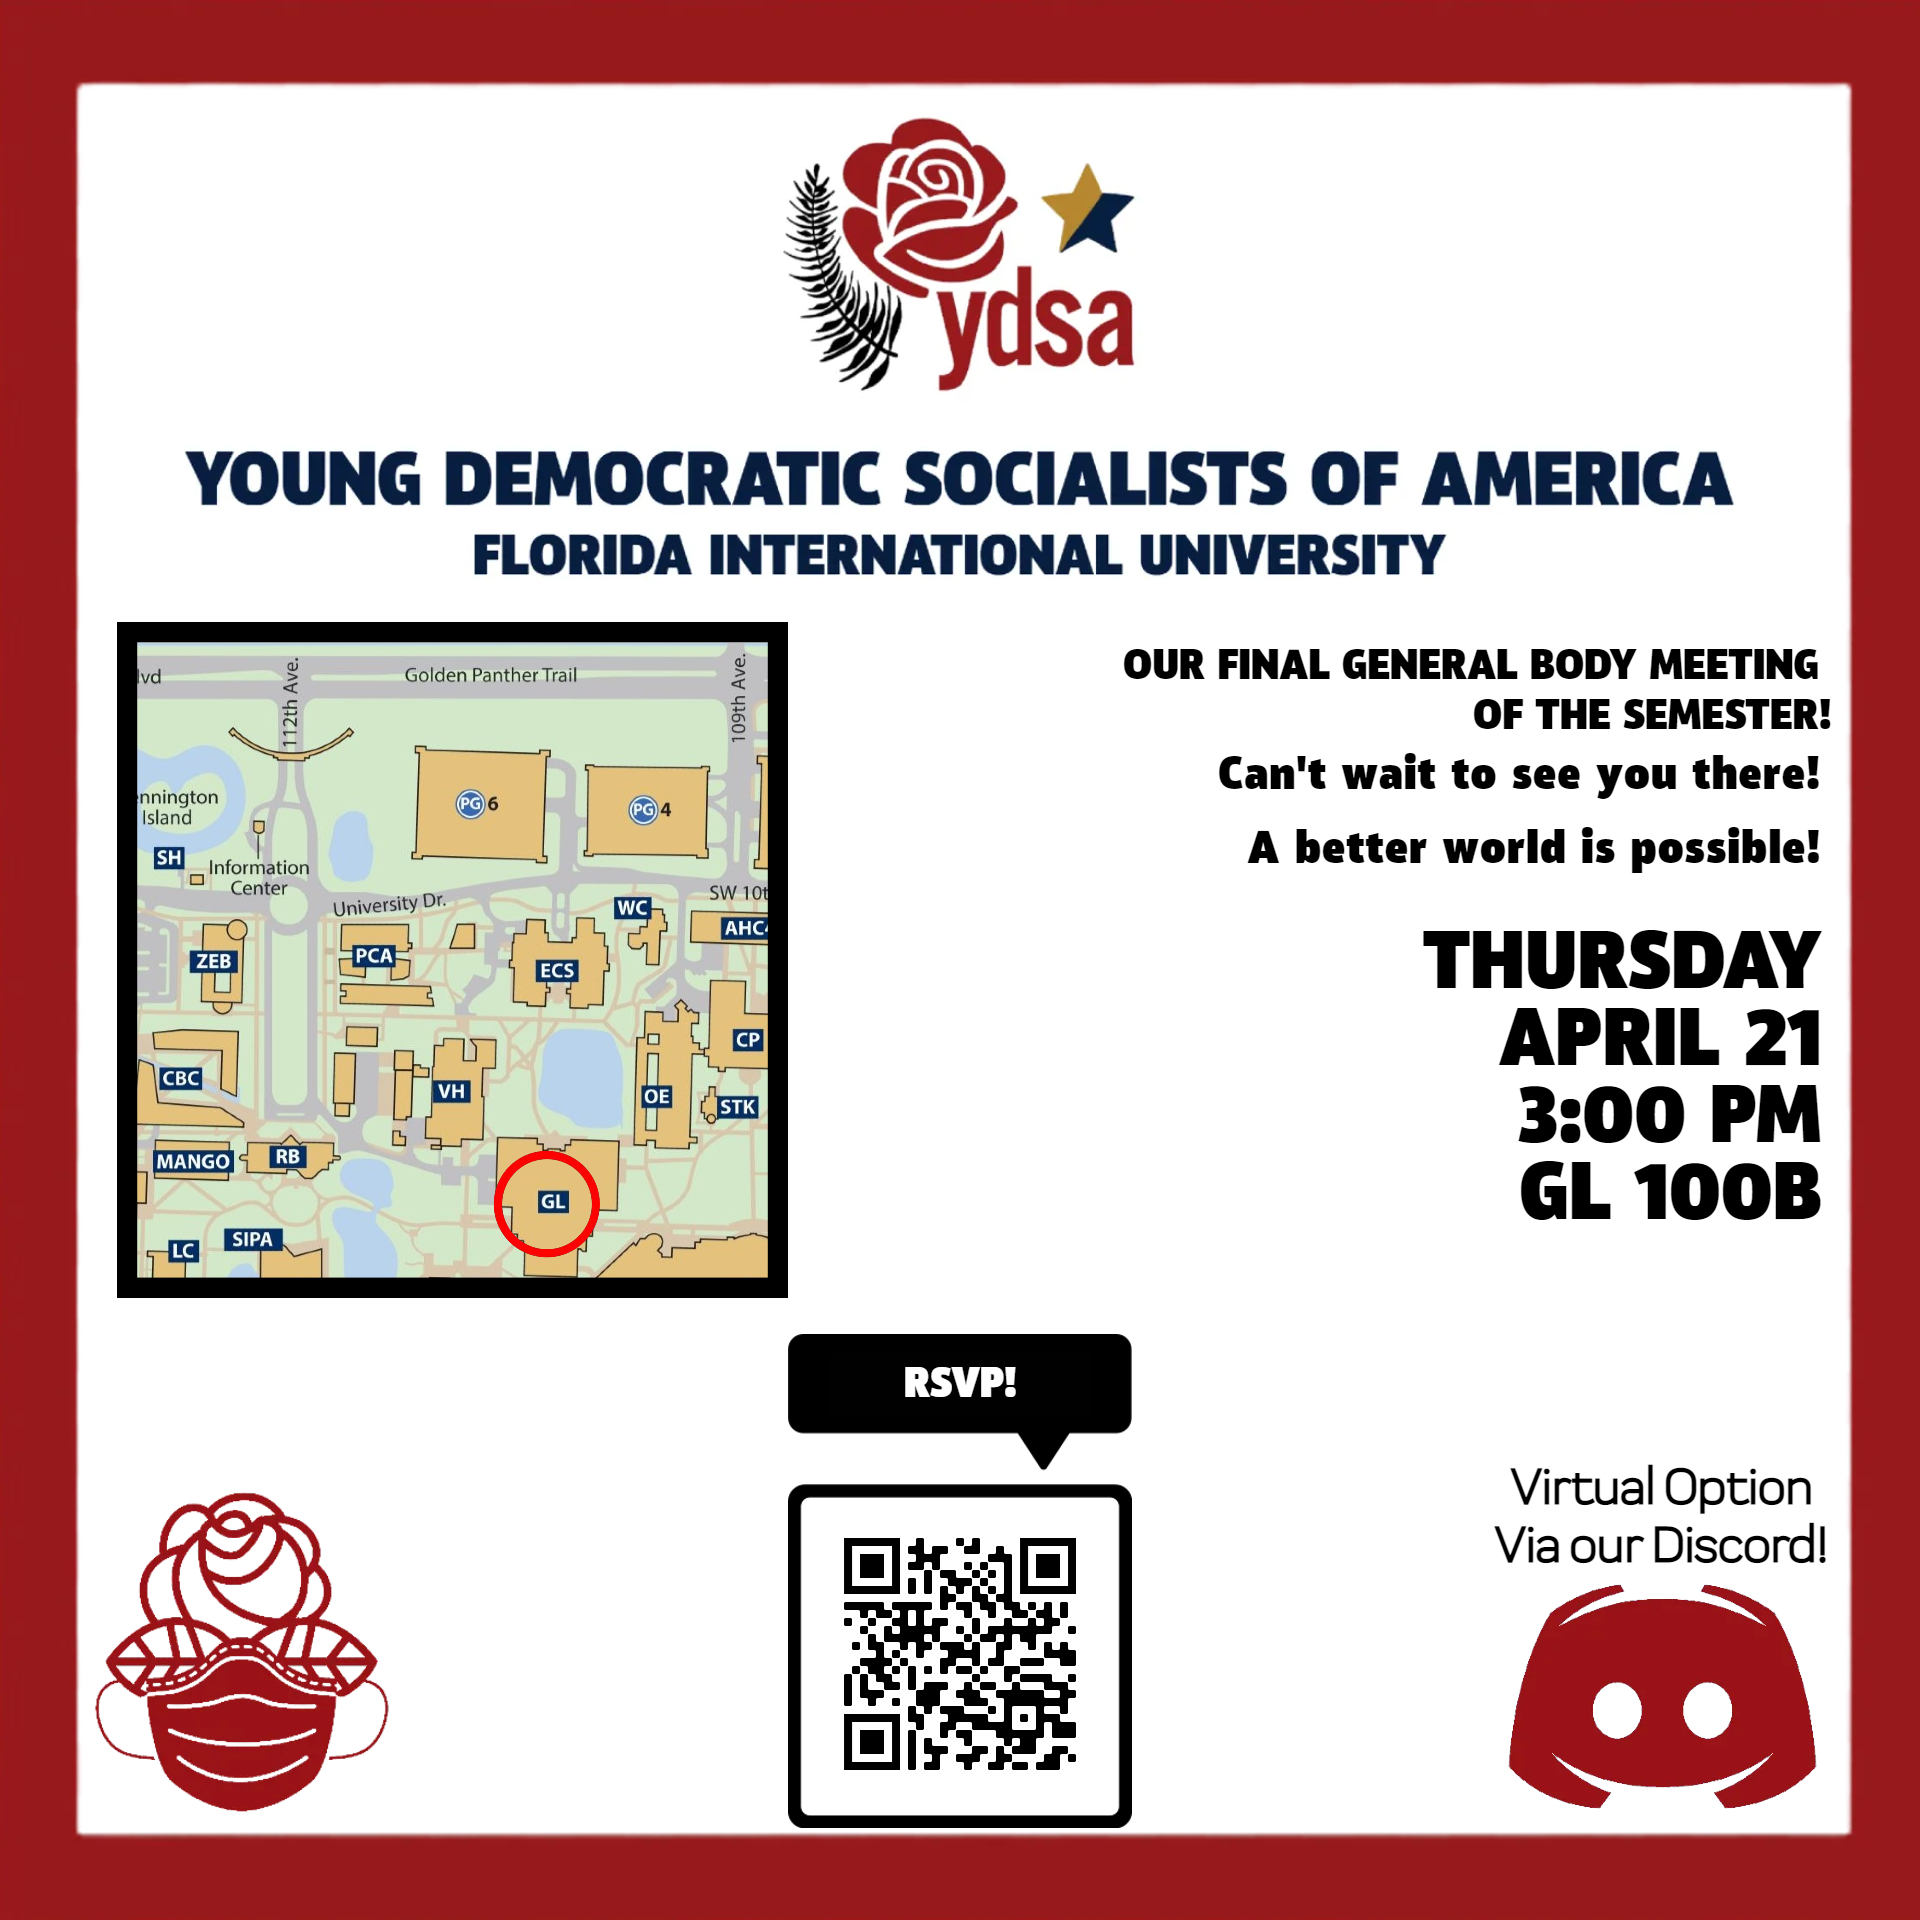
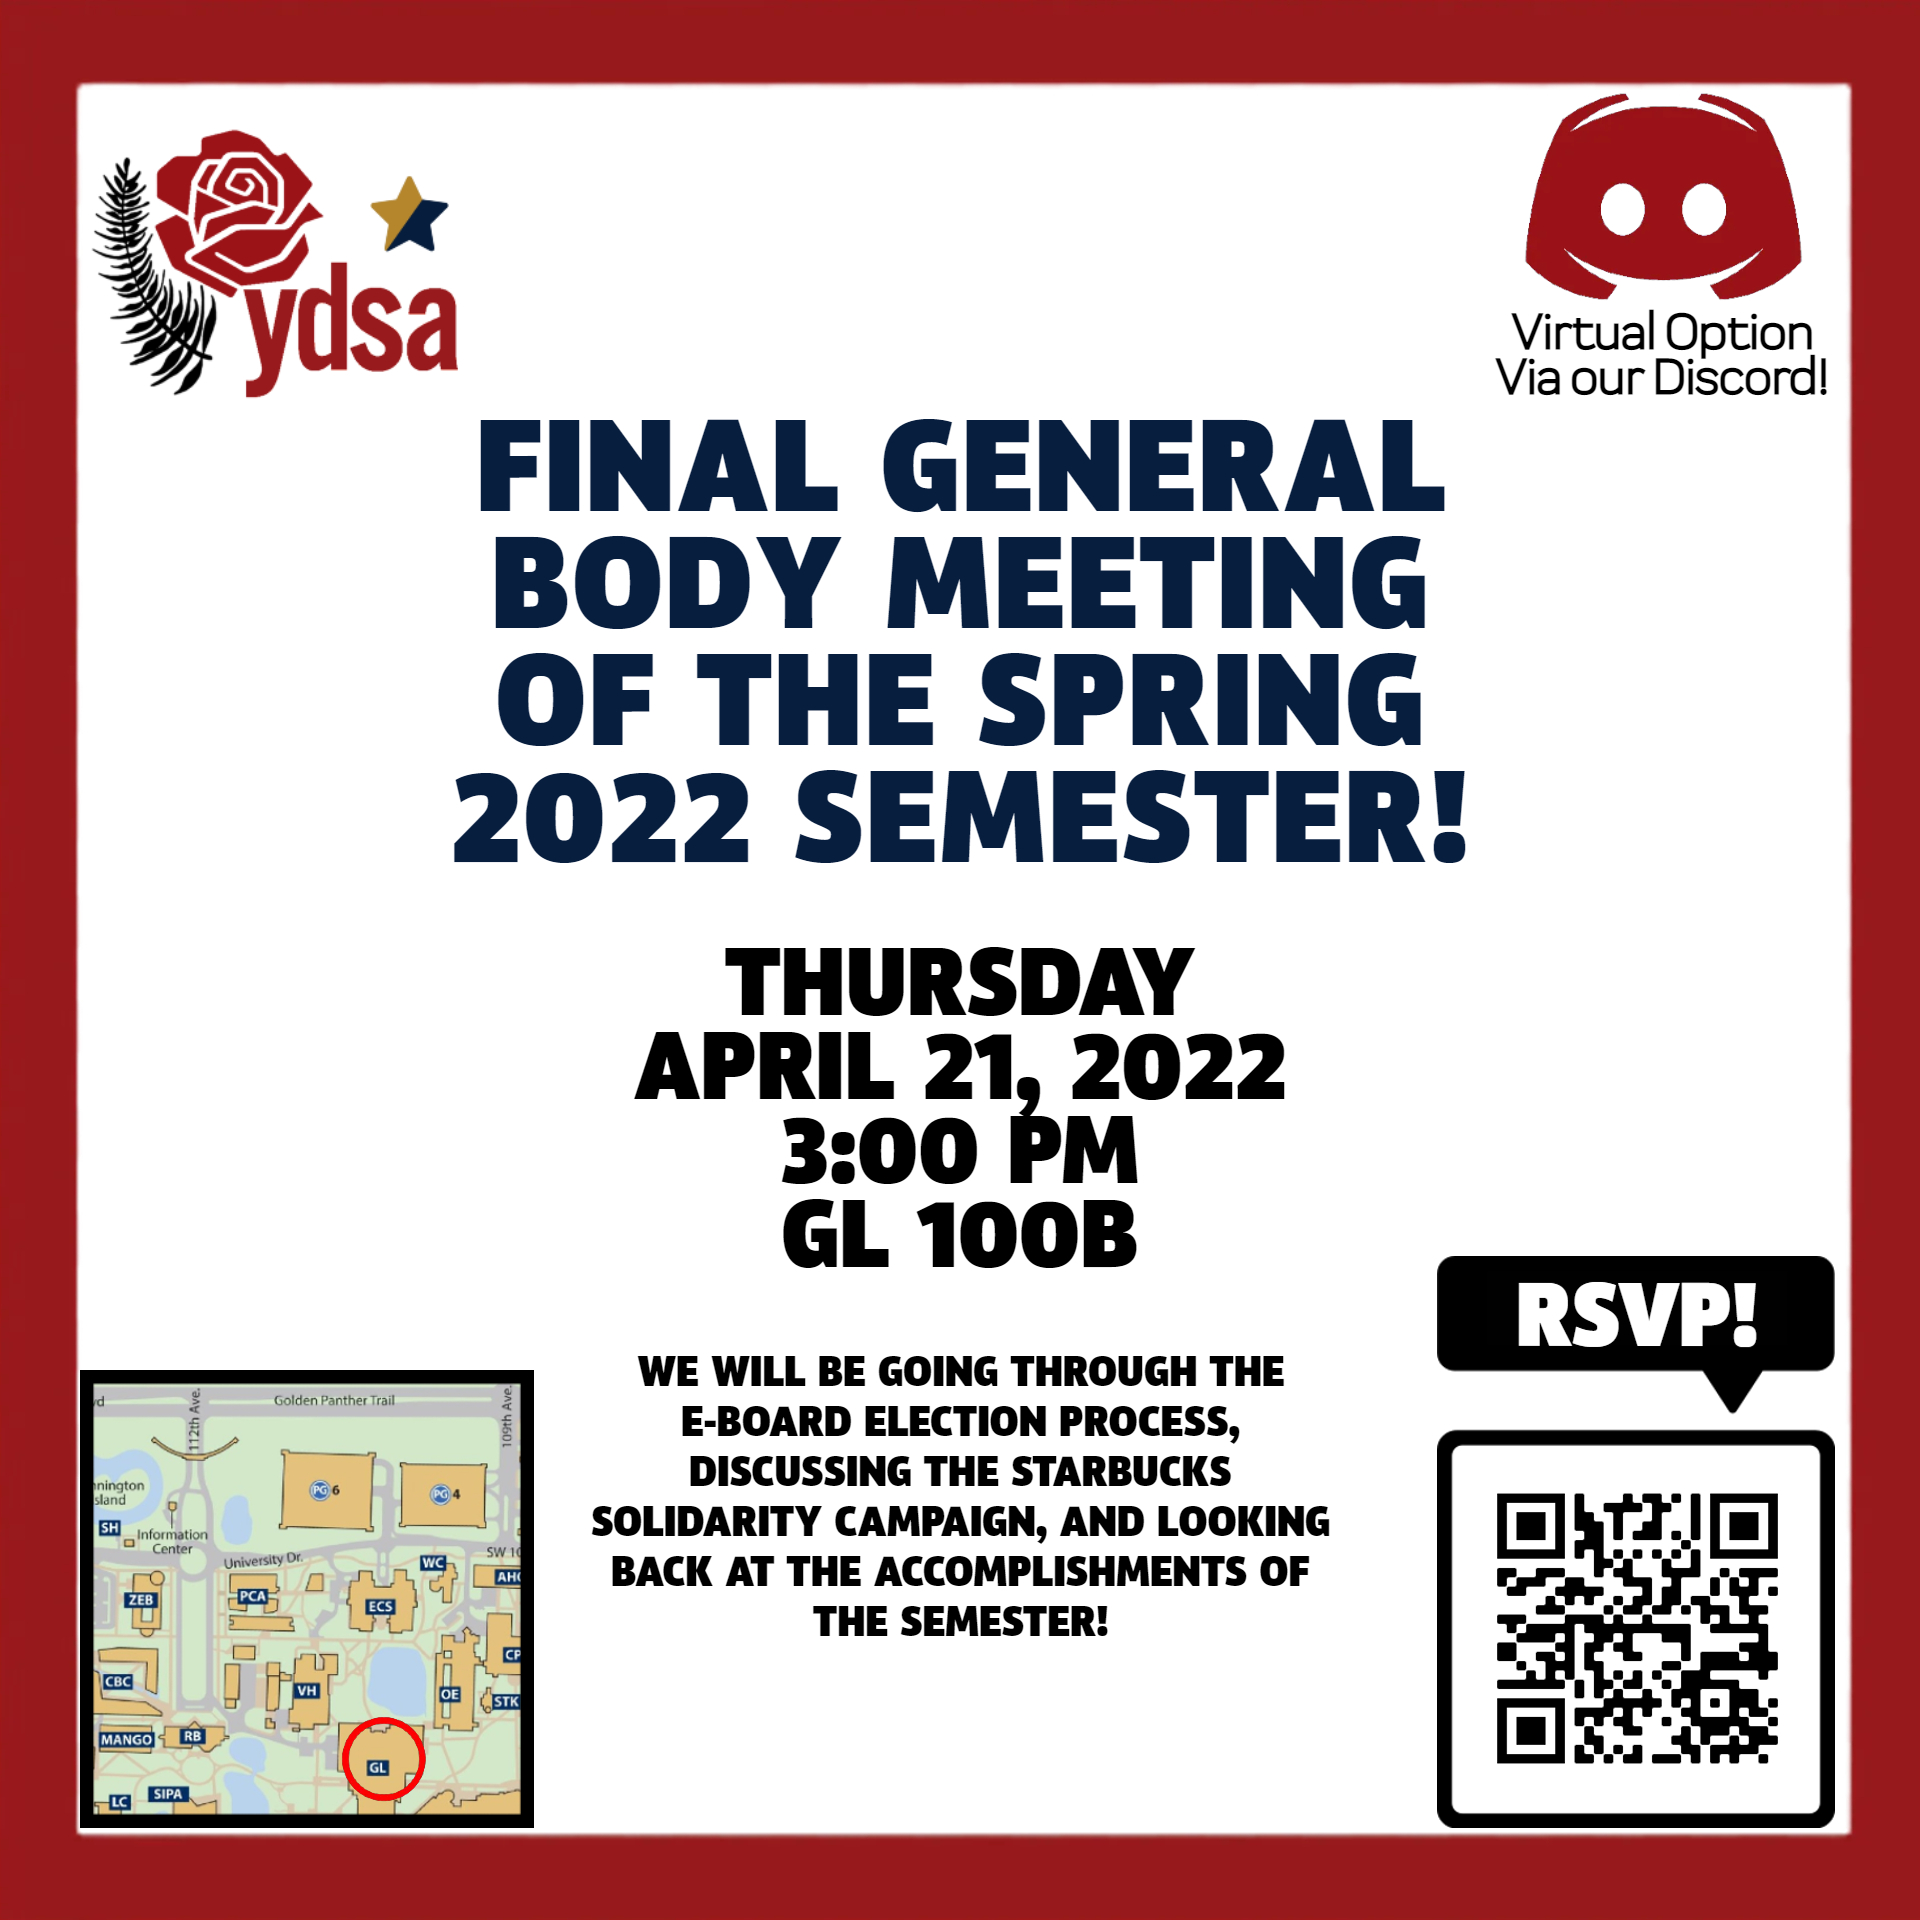
final

diff --git a/es.html b/es.html
@@ -117,8 +117,7 @@
     <h2 id="rsvp">
       ¡Haz clic en la imagen para confirmar tu asistencia!
     </h2>
-    <a href="https://forms.gle/cHLzsJ9P9MbWaN3fA" target="_blank"><img id="real" src="images/che.jpg" alt=""></a>
-    <a href="https://forms.gle/AToqzkRVfpi7fjQz5" target="_blank"><img id="mix" src="images/gbm4.jpg"></a>
+    <a href="https://forms.gle/AToqzkRVfpi7fjQz5" target="_blank"><img id="real" src="images/gbm4.jpg" alt=""></a>
   </div>
   </div>
   <div id="membership_perks">

diff --git a/en.html b/en.html
@@ -114,8 +114,7 @@
         Click Image to RSVP!
       </h2>
     </h1>
-    <a href="https://forms.gle/cHLzsJ9P9MbWaN3fA" target="_blank"><img id="real" src="images/che.jpg" alt=""></a>
-    <a href="https://forms.gle/AToqzkRVfpi7fjQz5" target="_blank"><img id="mix" src="images/gbm4.jpg"></a>
+    <a href="https://forms.gle/AToqzkRVfpi7fjQz5" target="_blank"><img id="real" src="images/gbm4.jpg" alt=""></a>
   </div>
   <div id="membership_perks">
     <h1 id="membership">
